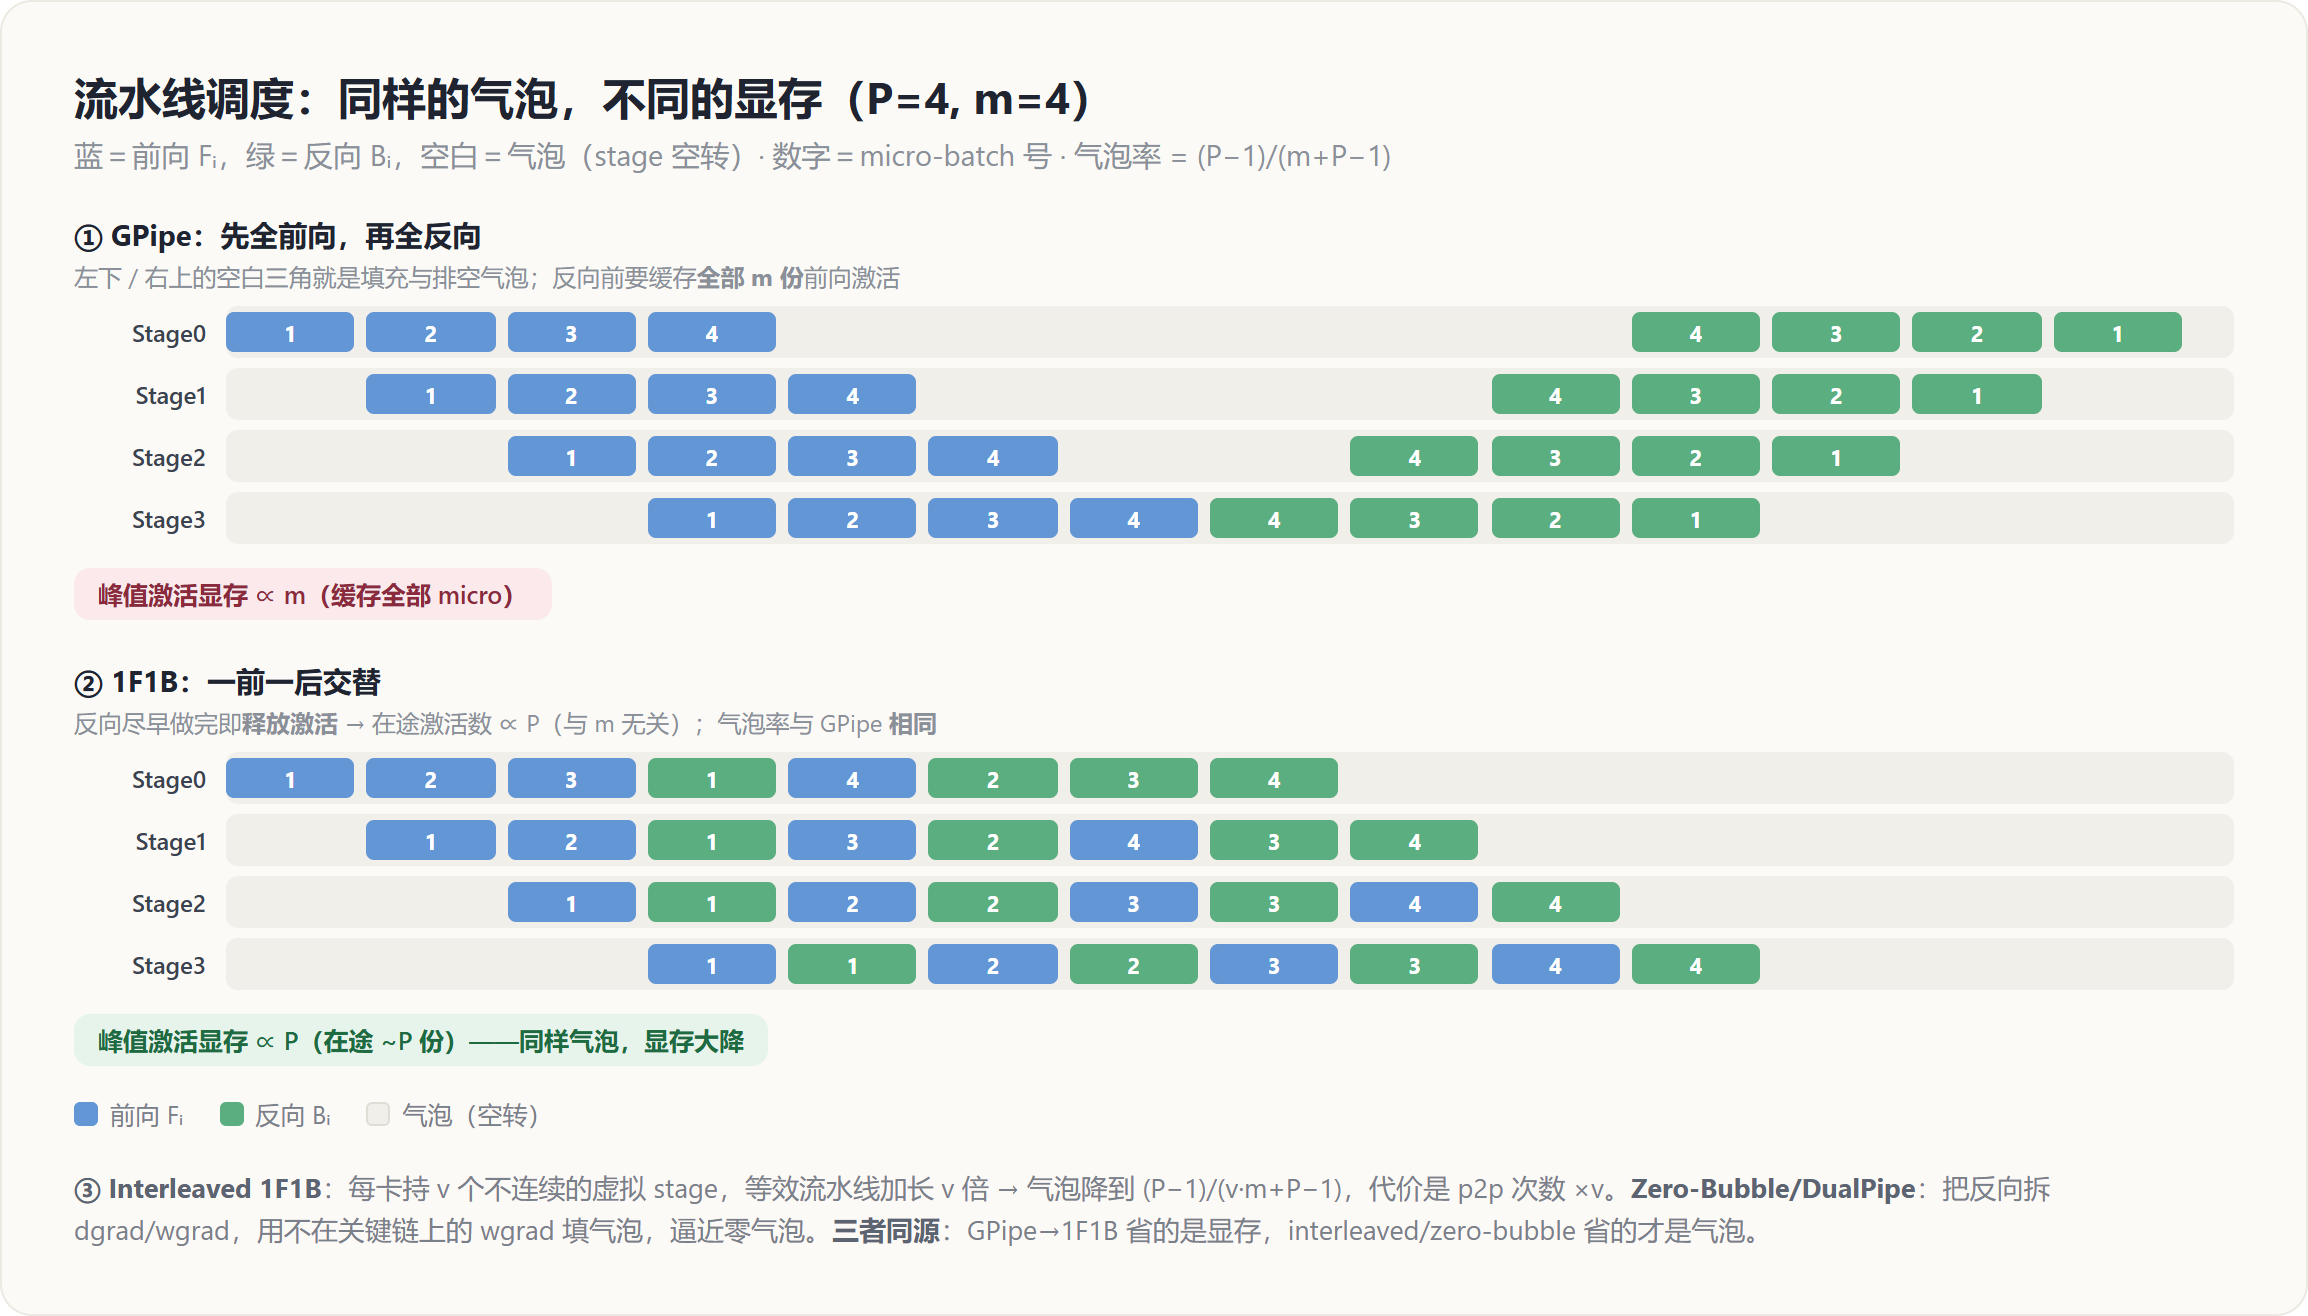
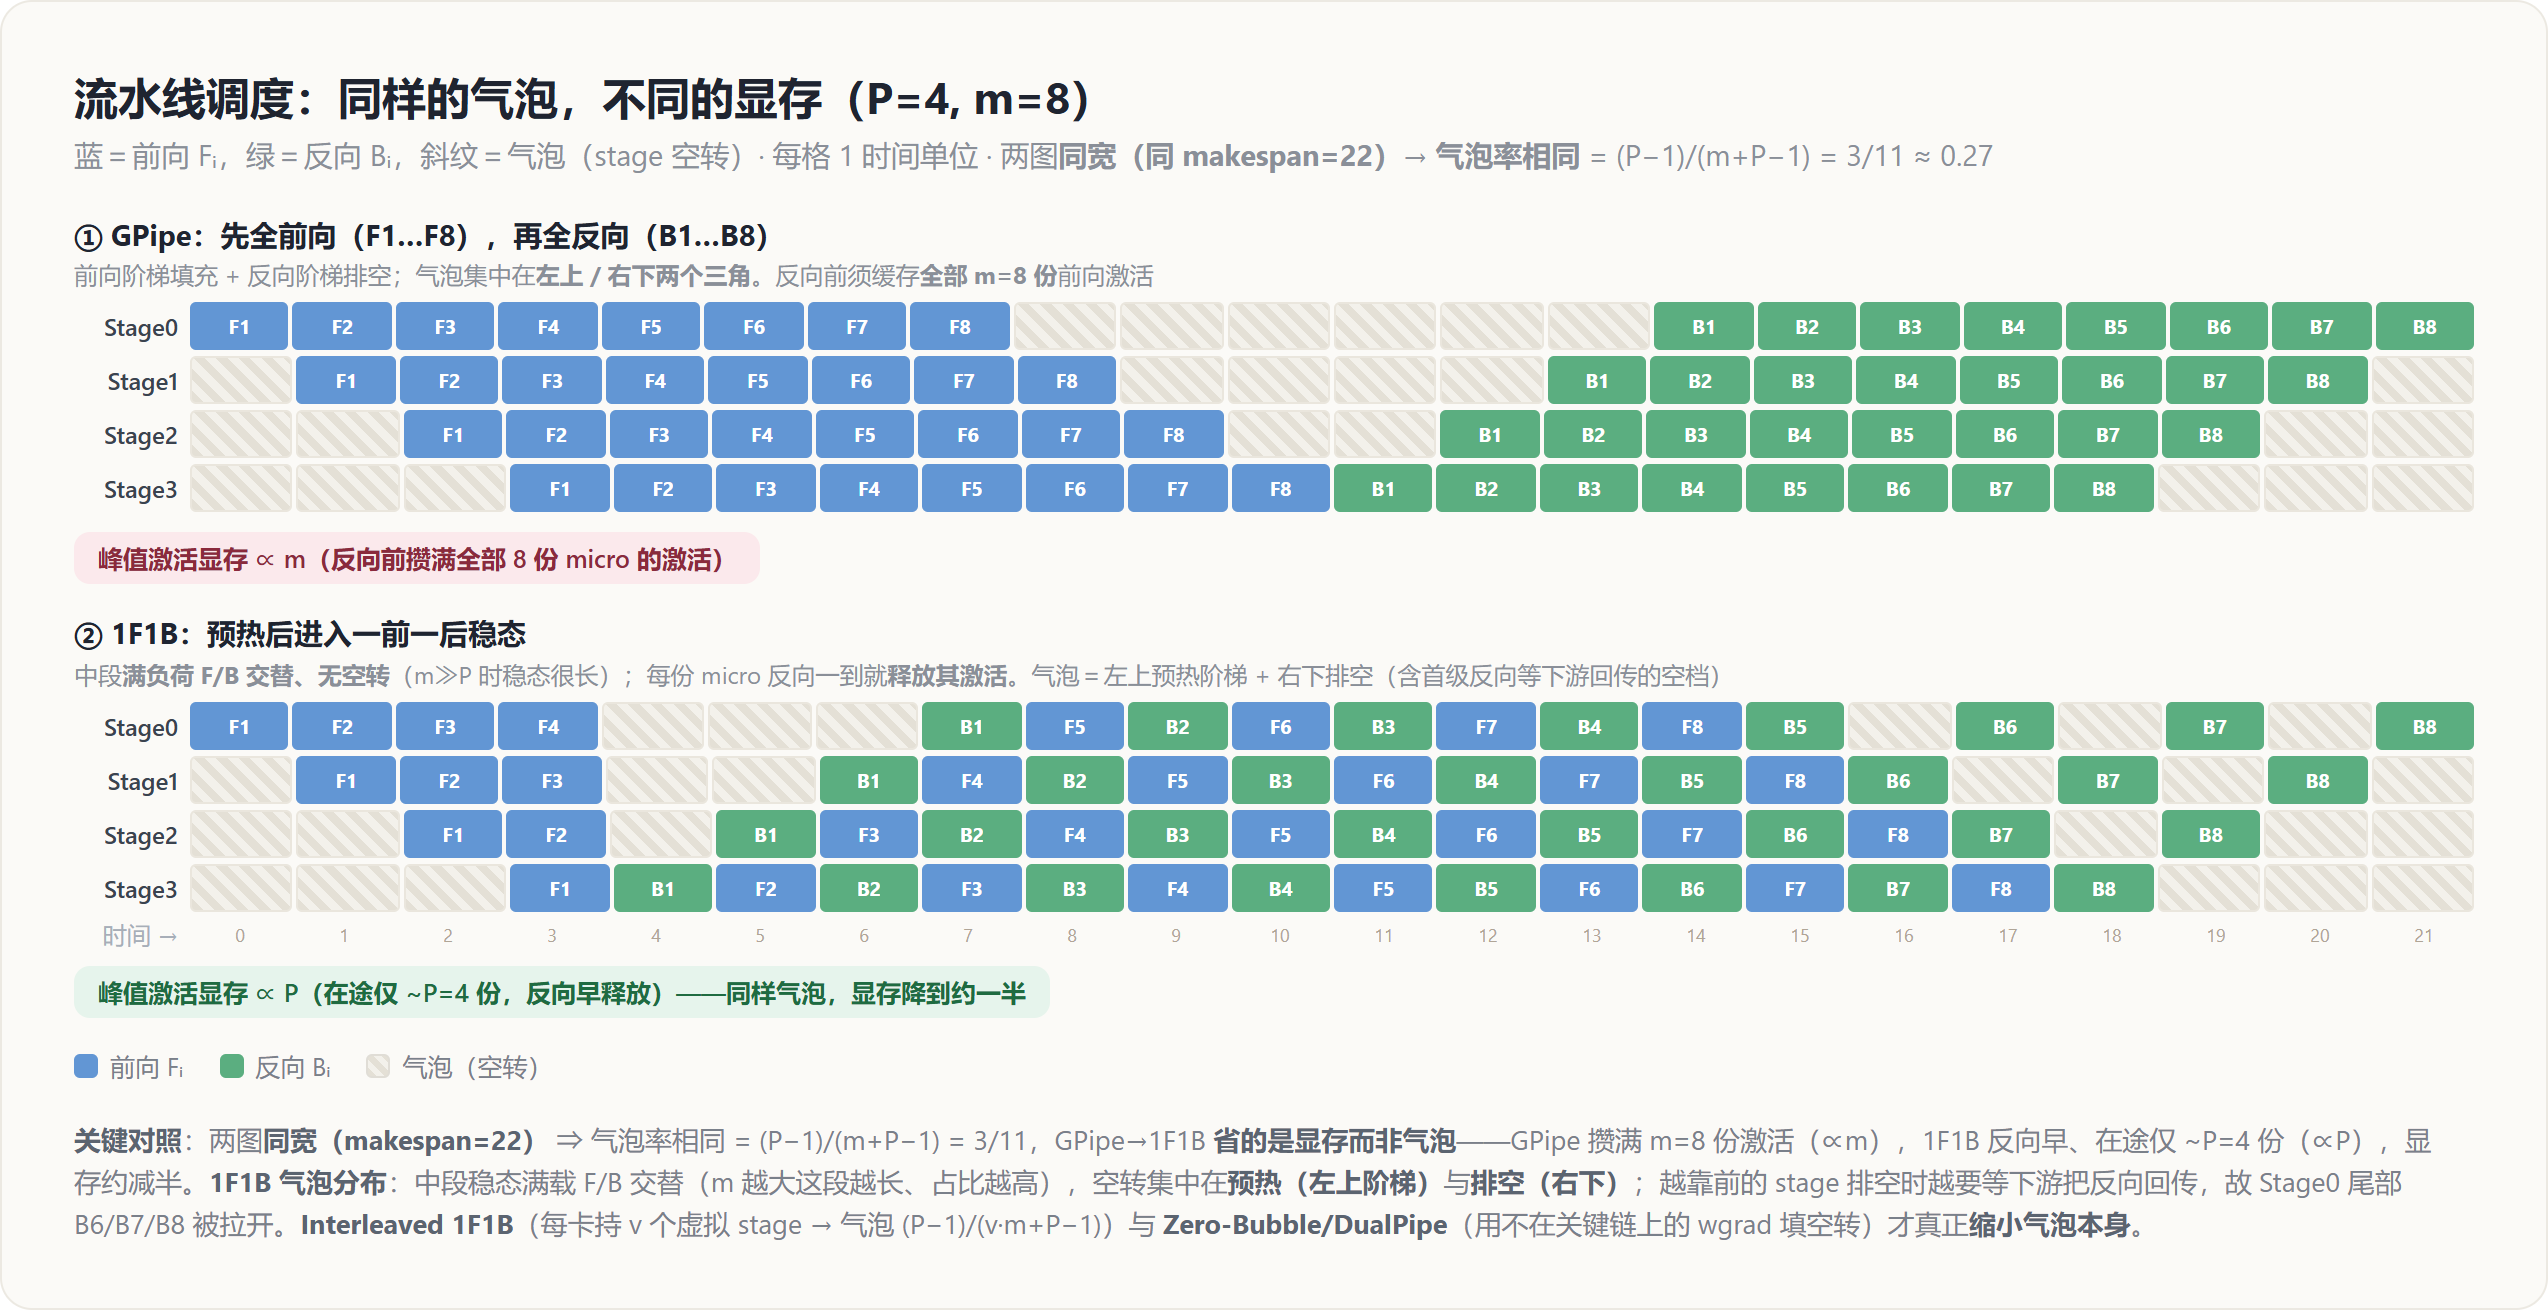
wiki(theory): 流水线并行图示改用 P=4/m=8 典型配置（据调度仿真校正气泡位置与稳态）

Changed region(s): [[0.0312, 0.0611, 0.9671, 0.9466], [0.6551, 0.0916, 0.6863, 0.1221]]

diff --git a/wiki/01_theory/06_distributed_parallelism/pipeline_parallel_analysis.md b/wiki/01_theory/06_distributed_parallelism/pipeline_parallel_analysis.md
@@ -31,7 +31,7 @@ Transformer 是 $L$ 层顺序堆叠，$\text{layer}_{i+1}$ 的输入是 $\text{l
 
 ## 气泡率：填充与排空的固定损耗
 
-![GPipe / 1F1B / Interleaved 三种流水线调度的气泡对比](assets/dp_pipeline_parallel_fig1.png)
+![GPipe 与 1F1B 调度对比：同样的气泡率、不同的峰值显存（P=4, m=8，interleaved/zero-bubble 见下文）](assets/dp_pipeline_parallel_fig1.png)
 
 即便 microbatching，流水线**启动**（填满 $P$ 个 stage 需要 $P-1$ 步）和**收尾**（排空需要 $P-1$ 步）时仍有空闲。这段固定损耗就是气泡：
 
